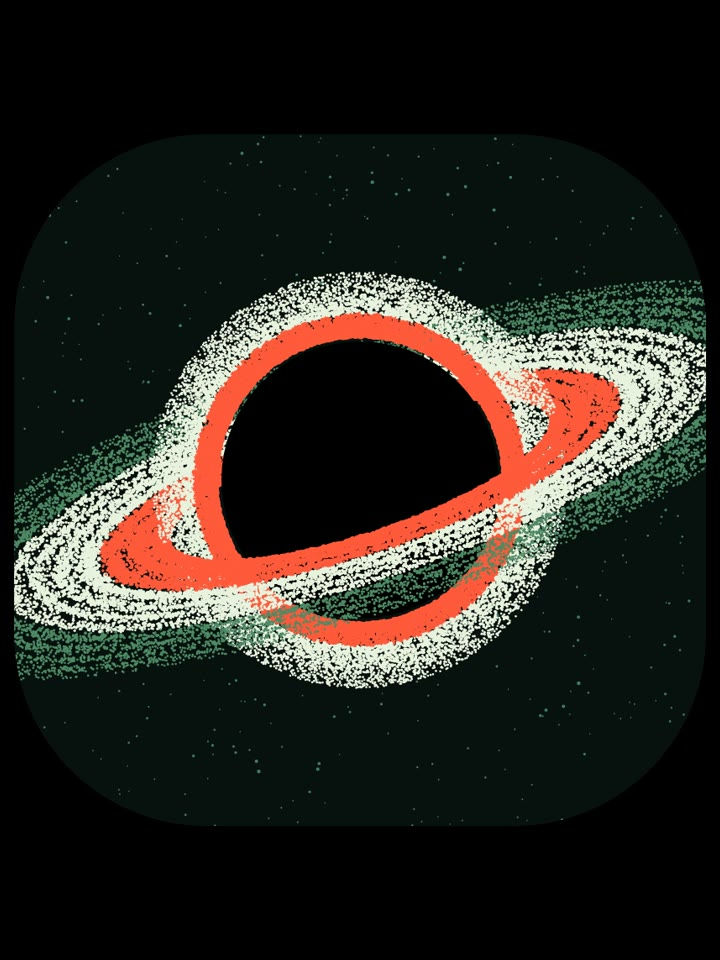
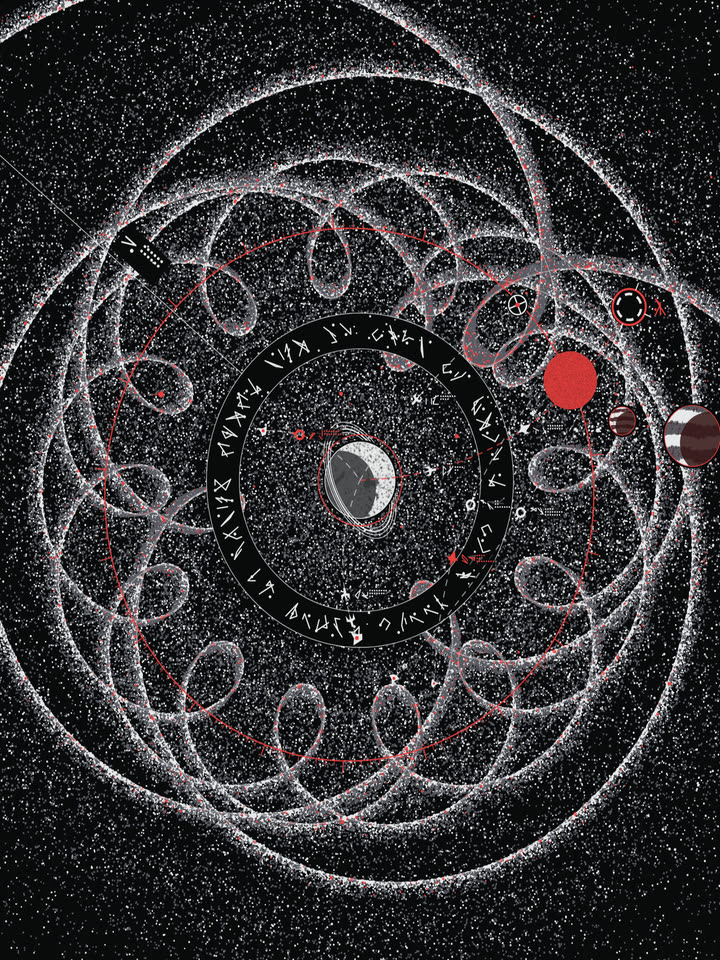
Use a high-resolution Orrery capture on the Tech page

diff --git a/AGENTS.md b/AGENTS.md
@@ -512,7 +512,7 @@ Last reviewed: 2026-09-02.
 
 ## 2026-11-06: Better Tech images
 
-- User's request: a better image or the new logo for the orrery, and better images for the other Tech entries. `images/tech/` is now 720x960 (`?v=2` in `site/tech.njk`; raise it when replacing them). Orrery: the black hole app icon on black. Push 2: only the four pad decks from `cheatsheet.svg` (the full sheet in the push2-traktor repo still says "screen not used"). Bookings, Learning and ZAHABU: live sites at 600x800, taken 2026-11-06. Daisy: live site at 960x1280, cropped; its slides move, so check the frame when retaking. Each file is about 75 to 115 KB.
+- User's request: a better image or the new logo for the orrery, and better images for the other Tech entries. `images/tech/` is now 720x960 (`?v=2` in `site/tech.njk`; raise it when replacing them). Orrery: first the black hole app icon on black, then at the user's request a high-res capture of the engine (seed 314, carbon palette, `?still=1&wallpaper=1`, 800x1067 at 2x) in two sizes, 720 and 1500 px wide, chosen by `srcset`. Push 2: only the four pad decks from `cheatsheet.svg` (the full sheet in the push2-traktor repo still says "screen not used"). Bookings, Learning and ZAHABU: live sites at 600x800, taken 2026-11-06. Daisy: live site at 960x1280, cropped; its slides move, so check the frame when retaking. Each file is about 75 to 115 KB.
 - `height="800"` on the Tech `<img>` forced a 300x800 box and cut the middle out of every image, so it's removed there and they now show at 3:4. The Works page has the same pattern and was left as it is: its photos looked fine and the user likes that page.
 - Portrait sizes: 820x1180, 1024x1366 and a real WebKit resize paint correctly. Headless Chrome screenshots at 1440x2000 and taller look grey, but the canvas holds the right pixels (mean brightness 237, no errors); treated as a capture quirk, not checked on a real tall screen.
 
